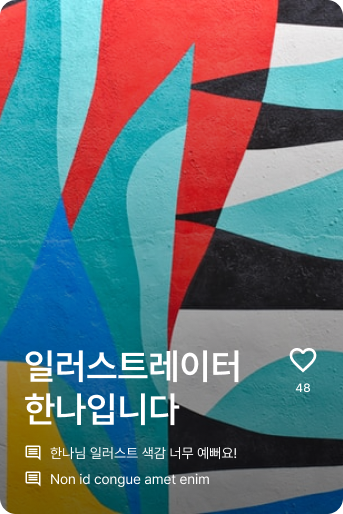
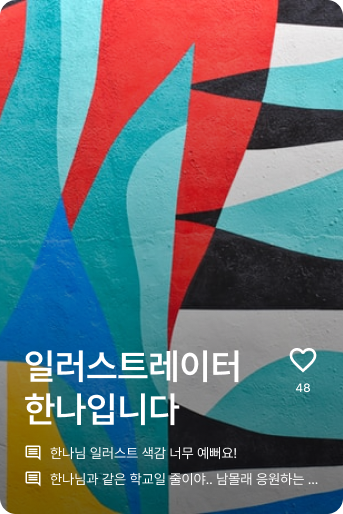
홈, 부스

Changed region(s): [[0.1458, 0.9027, 0.6122, 0.965], [0.6414, 0.9027, 0.8746, 0.965]]

diff --git a/src/pages/booth/index.tsx b/src/pages/booth/index.tsx
@@ -1,16 +1,103 @@
-import Image from 'next/image';
+import Image from 'Next/Image';
+import dynamic from 'next/dynamic';
+import Link from 'next/link';
 import { useRouter } from 'next/router';
-import { useEffect, useState } from 'react';
+import React, { useCallback, useEffect, useLayoutEffect, useRef, useState } from 'react';
 import styled from 'styled-components';
 
+import Dot3 from '@assets/dot3.svg';
+import LeftArrow from '@assets/left-arrow.svg';
+import Star from '@assets/star.svg';
+import Tag from '@assets/tag.svg';
+import Tag1 from '@assets/tag1.svg';
+import Tag2 from '@assets/tag2.svg';
 import { BoothBottomNav } from '@components/BottomNav';
 
+const isServer = typeof window === 'undefined';
+
 const Booth = () => {
+  // if (isServer) return;
+
+  const layoutRef = useRef();
   const router = useRouter();
+  const [scrollPosition, setScrollPosition] = useState(0);
+  const [clickTag, setClickTag] = useState(false);
+
+  useLayoutEffect(() => {
+    // if (layoutRef.current) {
+    //   layoutRef.current.addEventListener('scroll', handleScroll);
+    //   console.log('sdf')
+    //   return () => layoutRef.current.removeEventListener('scroll', handleScroll);
+    // }
+  }, []);
+
+  useEffect(() => {
+    window.addEventListener('scroll', handleScroll);
+    return () => window.removeEventListener('scroll', handleScroll);
+  });
+  const handleScroll = () => {
+    console.log('scroll event', window.scrollY);
+    setScrollPosition(window.scrollY);
+  };
+  // useEffect(() => {
+  //   const updateScroll = () => {
+  //     setScrollPosition(window.scrollY || document.documentElement.scrollTop);
+  //   };
+  //   window.addEventListener('scroll', updateScroll);
+  //   console.log(scrollPosition);
+  // });
+
+  const clickHandler = () => {
+    setClickTag((prev) => !prev);
+  };
 
   return (
     <Layout>
-      <Main></Main>
+      {scrollPosition && scrollPosition < 100 ? (
+        <Header2 className="container">
+          {' '}
+          <Link href="/home" passHref>
+            <a>
+              <LeftArrow />
+            </a>
+          </Link>
+          <div>
+            <Star />
+            <Dot3 style={{ marginLeft: '38px' }} />
+          </div>
+        </Header2>
+      ) : (
+        <Header className="container">
+          <Link href="/home" passHref>
+            <a>
+              <LeftArrow />
+            </a>
+          </Link>
+          <div>
+            <Star />
+            <Dot3 style={{ marginLeft: '38px' }} />
+          </div>
+        </Header>
+      )}
+
+      <Main>
+        <Image src="/images/booth-1.png" width="375" height="375" />
+        <Image src="/images/booth-2.png" width="375" height="284" />
+        <Image src="/images/booth-3.png" width="375" height="281" />
+        <Image src="/images/booth-4.png" width="375" height="253.378" />
+        <div style={{ position: 'relative', left: 0, top: 0 }}>
+          <Image src="/images/booth-5.png" width="375" height="281" onClick={clickHandler} />
+          {clickTag && (
+            <div style={{ transition: 'opacity 1s ease-in-out' }}>
+              <Tag style={{ position: 'absolute', left: '16px', bottom: '16px' }} />
+              <Tag1 style={{ position: 'absolute', left: '25%', top: '10%' }} />
+              <Tag2 style={{ position: 'absolute', left: '56%', top: '40%' }} />
+            </div>
+          )}
+        </div>
+
+        <Image src="/images/booth-6.png" width="375" height="347.747093" />
+      </Main>
       <BoothBottomNav />
     </Layout>
   );
@@ -26,7 +113,35 @@ const Layout = styled.div`
   height: 100vh;
   overflow: hidden;
 `;
+
+const Header = styled.div`
+  position: absolute;
+  width: 90%;
+  z-index: 100;
+  display: flex;
+  justify-content: space-between;
+  align-items: center;
+  height: 44px;
+  color: white;
+  background: linear-gradient(180deg, rgba(0, 0, 0, 0.32) 0%, rgba(0, 0, 0, 0) 100%);
+`;
+const Header2 = styled.div`
+  position: absolute;
+  width: 90%;
+  z-index: 100;
+  display: flex;
+  justify-content: space-between;
+  align-items: center;
+  height: 44px;
+  color: #818798;
+  background: white;
+`;
 const Main = styled.main`
   flex: 1;
   overflow: auto;
+`;
+
+const TagsWrapper = styled.div`
+  /* position: absolute; */
+  z-index: 10;
 `;

diff --git a/src/components/BottomNav/BoothBottomNav.tsx b/src/components/BottomNav/BoothBottomNav.tsx
@@ -1,43 +1,43 @@
 import Link from 'next/link';
 import { useRouter } from 'next/router';
+import { useState } from 'react';
 
-import {
-  BellOutlined,
-  CommentOutlined,
-  EnvironmentOutlined,
-  HomeOutlined,
-  UserOutlined,
-} from '@ant-design/icons';
 import Comment from '@assets/comment.svg';
 import Heart from '@assets/heart.svg';
+import HeartLike from '@assets/heart_like.svg';
 import Share from '@assets/share.svg';
 
 import * as S from './styles';
 
 const BoothBottomNav = () => {
   const router = useRouter();
+  const [like, setLike] = useState(48);
+  const [isLike, setIsLike] = useState(false);
+
+  const clickHandler = () => {
+    setLike(isLike === true ? like - 1 : like + 1);
+    setIsLike((prev) => !prev);
+  };
+
   return (
     <S.BottomNav className="container">
-      <Link href="/home" passHref>
-        <a className={`nav-link ${router.asPath === '/home' ? 'active' : ''}`}>
+      <a className={`nav-link`} onClick={clickHandler}>
+        {isLike ? (
+          <HeartLike className="svg-path" style={{ fontSize: '18px' }} />
+        ) : (
           <Heart className="svg-path" style={{ fontSize: '18px' }} />
-          <span>48</span>
-        </a>
-      </Link>
+        )}
+        <span>{like}</span>
+      </a>
+      <a className={`nav-link`}>
+        <Comment className="svg-complicated" style={{ fontSize: '18px' }} />
+        <span>12</span>
+      </a>
 
-      <Link href="/notification" passHref>
-        <a className={`nav-link ${router.asPath === '/notification' ? 'active' : ''}`}>
-          <Comment className="svg-complicated" style={{ fontSize: '18px' }} />
-          <span>12</span>
-        </a>
-      </Link>
-
-      <Link href="/map" passHref>
-        <a className={`nav-link ${router.asPath === '/map' ? 'active' : ''}`}>
-          <Share className="svg-paths" style={{ fontSize: '18px' }} />
-          <span>3</span>
-        </a>
-      </Link>
+      <a className={`nav-link`}>
+        <Share className="svg-paths" style={{ fontSize: '18px' }} />
+        <span>3</span>
+      </a>
       <S.Button>문의하기</S.Button>
     </S.BottomNav>
   );

diff --git a/src/pages/home.tsx b/src/pages/home.tsx
@@ -1,20 +1,39 @@
+import Image from 'Next/Image';
 import { Tabs } from 'antd';
 import type { NextPage } from 'next';
-import Image from 'next/image';
 import { useRouter } from 'next/router';
 import styled from 'styled-components';
 
+import BoothCard from '@components/BoothCard';
 import { HomeLayout } from '@components/Layout';
 
 const Home: NextPage = () => {
   const router = useRouter();
+  const boothDummyData = [
+    {
+      id: 1,
+      title: '일러스트레이터 한나입니다.',
+      img: '/images/home1.jpg',
+      like: 48,
+      comment: '한나님 일러스트 색감 너무 예뻐요!',
+      comment2: '한나님과 같은 학교일 줄이야.. 남몰래 응원하는...',
+    },
+    {
+      id: 2,
+      title: '일러스트레이터 한나입니다.',
+      img: '/images/home2.png',
+      like: 48,
+      comment: '한나님 일러스트 색감 너무 예뻐요!',
+      comment2: '한나님과 같은 학교일 줄이야.. 남몰래 응원하는...',
+    },
+  ];
 
   return (
     <HomeLayout title="홈">
       <div>
         <BoothWrapper>
           <Booth onClick={() => router.push('/booth')}>
-            <Image src="/images/home1.png" width="343" height="514" />
+            <Image src="/images/home1.jpg" width="343" height="514" />
           </Booth>
           <Booth>
             <Image src="/images/home2.png" width="343" height="514" />
@@ -30,6 +49,16 @@ const Home: NextPage = () => {
           </Booth>
         </BoothWrapper>
       </div>
+      {boothDummyData.map((booth) => (
+        <BoothCard
+          key={booth.id}
+          title={booth.title}
+          like={booth.like}
+          img={booth.img}
+          comment={booth.comment}
+          comment2={booth.comment2}
+        />
+      ))}
     </HomeLayout>
   );
 };

diff --git a/src/components/BoothCard/BoothCard.tsx b/src/components/BoothCard/BoothCard.tsx
@@ -1,0 +1,65 @@
+import Link from 'next/link';
+import { useRouter } from 'next/router';
+import styled from 'styled-components';
+
+import CommentBooth from '@assets/comment-booth.svg';
+
+interface IBoothCard {
+  id?: number;
+  title?: string;
+  img: string;
+  like?: number;
+  comment?: string;
+  comment2?: string;
+}
+const BoothCard = ({ id, title, img, like, comment, comment2 }: IBoothCard) => {
+  const router = useRouter();
+
+  return (
+    <Wrapper img={img}>
+      <Title>{title}</Title>
+      <div>{like}</div>
+      <CommentWrapper>
+        <CommentBooth />
+        <Comment>{comment}</Comment>
+        <Comment>{comment2}</Comment>
+      </CommentWrapper>
+    </Wrapper>
+  );
+};
+
+export default BoothCard;
+
+type ImageType = {
+  img: string;
+};
+
+const Title = styled.div`
+  font-weight: 600;
+  font-size: 36px;
+  line-height: 43px;
+  color: white;
+  width: 247px;
+  height: 86px;
+`;
+const Wrapper = styled.div<ImageType>`
+  background-image: url(${(props) => props.img});
+  background: linear-gradient(180deg, rgba(0, 0, 0, 0) 0%, rgba(0, 0, 0, 0.55) 100%);
+  mix-blend-mode: normal;
+  border-radius: 16px;
+  margin: 24px 16px;
+  width: 343px;
+  height: 513px;
+`;
+
+const CommentWrapper = styled.div`
+  display: flex;
+`;
+
+const Comment = styled.div`
+  font-size: 14px;
+  line-height: 22px;
+  color: white;
+  width: 269px;
+  height: 22px;
+`;

diff --git a/src/pages/login/index.tsx b/src/pages/login/index.tsx
@@ -1,14 +1,27 @@
+import Image from 'Next/Image';
 import type { NextPage } from 'next';
 import Link from 'next/link';
 import React from 'react';
+import styled from 'styled-components';
+
+import Splash from '@assets/splash.svg';
 
 const Login: NextPage = () => {
   return (
-    <div>
-      로그인
-      <Link href="/home">홈으로 가는 임시 링크</Link>
-    </div>
+    <Wrapper>
+      <Link href="/home">
+        <Splash style={{ width: '59.25px' }} />
+      </Link>
+    </Wrapper>
   );
 };
 
 export default Login;
+
+const Wrapper = styled.div`
+  display: flex;
+  justify-content: center;
+  align-items: center;
+  width: 100%;
+  height: 812px;
+`;

diff --git a/src/components/BottomNav/styles.ts b/src/components/BottomNav/styles.ts
@@ -5,7 +5,7 @@ export const BottomNav = styled.nav`
   display: flex;
   justify-content: space-between;
   align-items: center;
-  border-top: 0.5px solid #F1F2F4;
+  border-top: 0.5px solid #f1f2f4;
 
   .nav-link {
     ${({ theme }) => theme.fonts.contents3};
@@ -22,7 +22,7 @@ export const BottomNav = styled.nav`
 
     span {
       color: #818698;
-      ${({ theme }) => theme.fonts.contents3};
+      font-size: 10px;
       margin-top: 3px;
     }
 
@@ -57,7 +57,7 @@ export const Button = styled.button`
   border-radius: 8px;
   border: none;
   width: 163px;
-  height: 40px;
+  height: 48px;
   color: white;
   font-weight: 600;
   font-size: 16px;

diff --git a/src/components/BoothCard/index.tsx b/src/components/BoothCard/index.tsx
@@ -1,0 +1,1 @@
+export { default } from './BoothCard';
